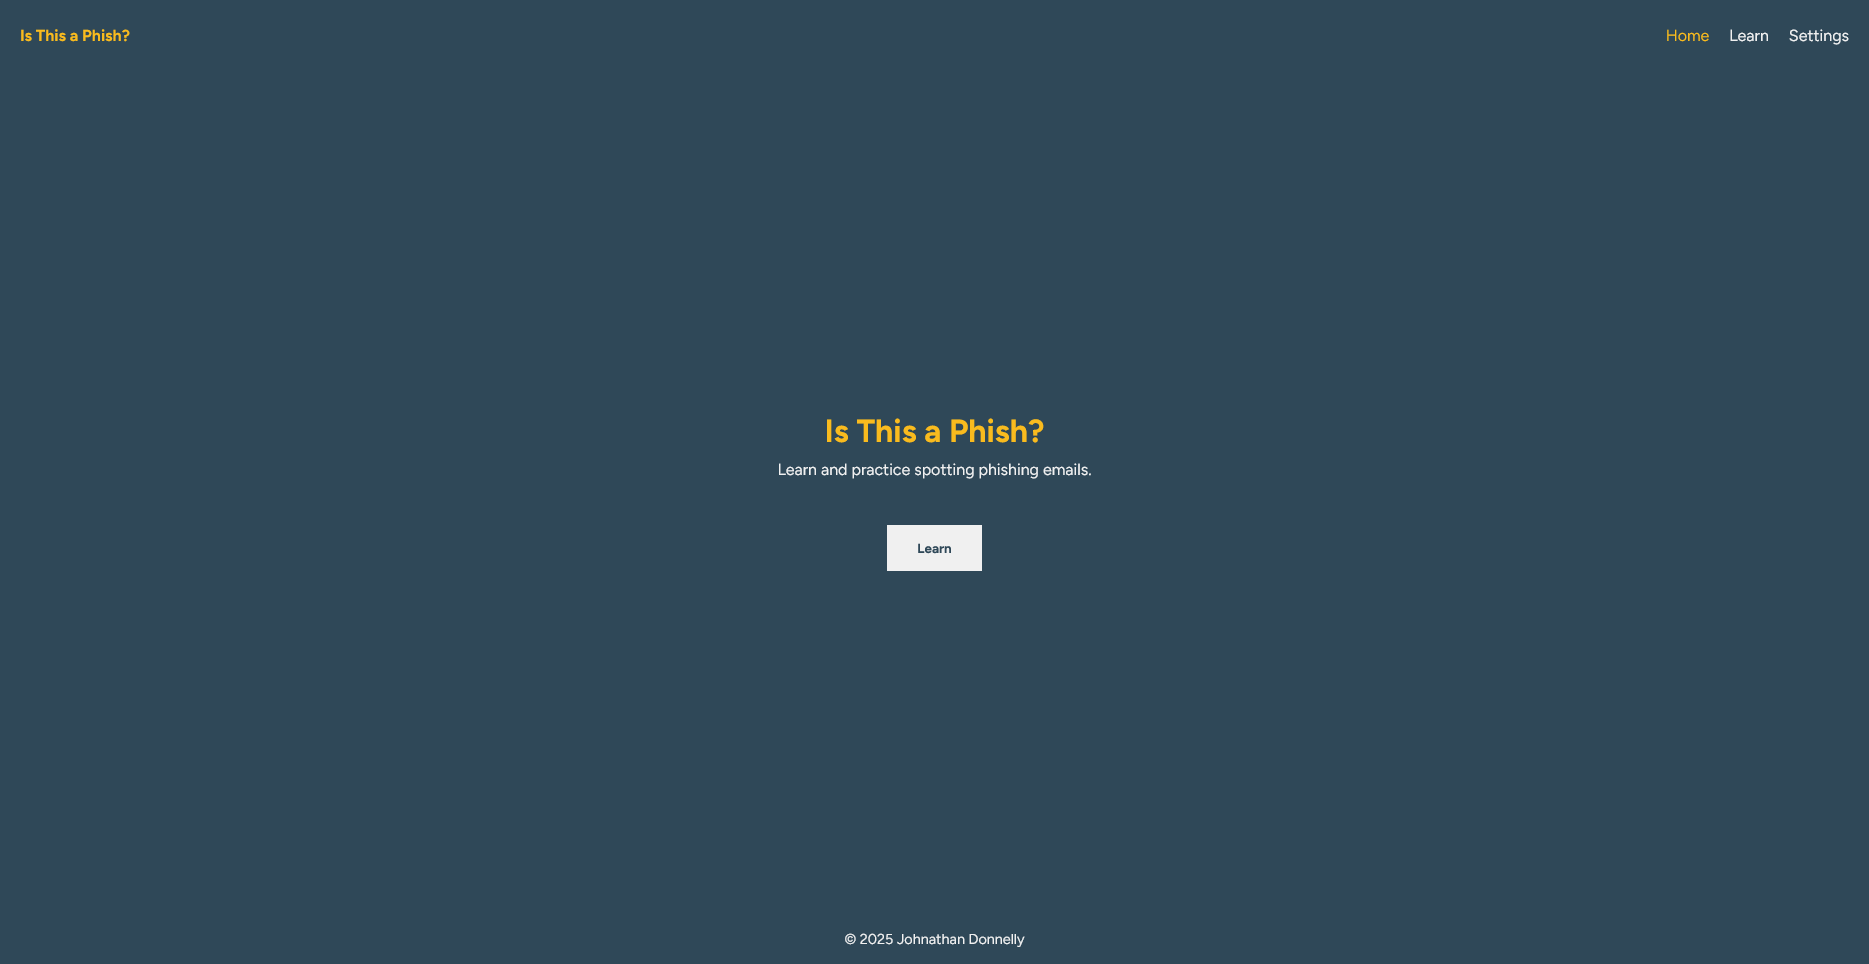
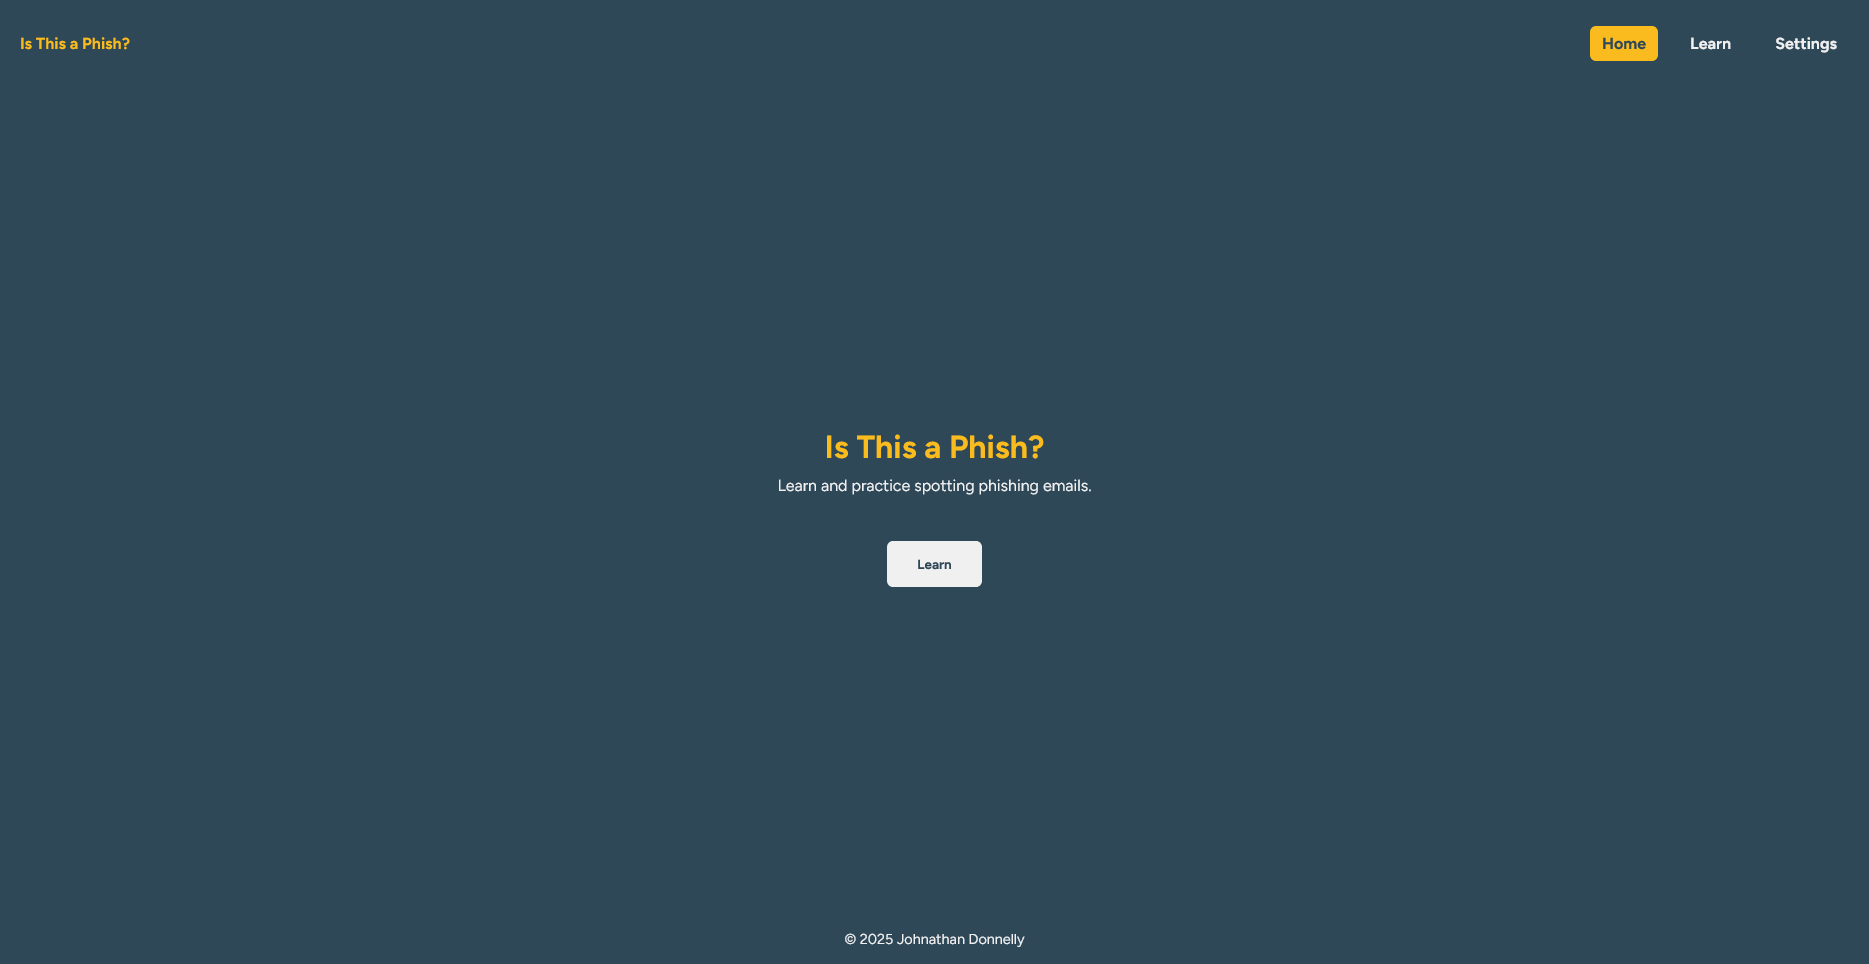
progress bar and styling improvements

Changed region(s): [[0.4034, 0.4357, 0.5896, 0.6224], [0.8379, 0.0311, 0.993, 0.0622], [0.0, 0.0311, 0.0621, 0.0622]]

diff --git a/app/styles.css b/app/styles.css
@@ -22,6 +22,7 @@ button {
     font-weight: bold;
     padding: 15px 30px;
     transition: background-color 0.3s ease;
+    border-radius: 6px;
 }
 
 button:hover:not(:disabled) {
@@ -51,7 +52,8 @@ button:disabled {
 }
 
 .active-page {
-    color: var(--primary-color)
+    background-color: var(--primary-color);
+    color: var(--background-color)
 }
 
 .page-wrapper {
@@ -92,11 +94,16 @@ ul li a {
     color: inherit;
     display: inline-block;
     text-decoration: none;
+    border-radius: 6px;
+    padding: 8px 12px;
+    transition: background-color 0.3s ease, color 0.3 ease;
+    font-weight: bold;
 }
 
 ul li a:hover {
     color: var(--primary-color);
     transition: color 0.3s ease;
+    background-color: rgba(249, 187, 30, 0.2);
 }
 
 /* Footer */
@@ -130,6 +137,34 @@ footer {
     margin-bottom: 20px;
 }
 
+#progress {
+    width: 80%;
+    background-color: #000000;
+    border-radius: 10px;
+    margin: 20px auto;
+    height: 20px;
+    overflow: hidden;
+    position: relative;
+}
+
+#progress-bar {
+    height: 100%;
+    width: 0%;
+    background-color: var(--primary-color);
+    transition: width 0.5s ease;
+    color: var(--background-color);
+}
+
+#progress-text {
+    position: absolute;
+    top: 50%;
+    left: 50%;
+    transform: translate(-50%, -50%);
+    font-size: 0.8rem;
+    font-weight: bold;
+    pointer-events: none;
+}
+
 /* Lesson: Email */
 
 #lesson {
@@ -140,17 +175,30 @@ footer {
 
 #email {
     flex: 7;
+    background-color: #ffffff;
+    color: #000000;
+    padding: 20px;
+    box-shadow: 0 2px 8px rgba(0,0,0,1);
+    font-family: Arial, Helvetica, sans-serif;
+    border-radius: 6px;
 }
 
 #email-title {
     font-size: 24px;
-    font-weight: bold;
+    font-weight: normal;
+    margin: 0 0 12px 0;
+    /*border-bottom: 1px solid #ddd;
+    margin-bottom: 8px;
+    padding-bottom: 4px;*/
 }
 
 #email-info {
     align-items: center;
     display: flex;
     gap: 10px;
+    color: #555;
+    flex-wrap: wrap;
+    margin-bottom: 20px;
 }
 
 #email-info p {
@@ -162,7 +210,9 @@ footer {
 }
 
 #email-content {
-    margin-top: 50px;
+    padding-top: 10px;
+    /*margin-top: 0px;*/
+    line-height: 1.6;
 }
 
 /* Lesson: Information */

diff --git a/app/learn.js b/app/learn.js
@@ -21,4 +21,23 @@ fetch('lesson.json')
                 }
             });
         });
+
+        let totalLessons = 0;
+        Object.keys(data).forEach(category => {
+            totalLessons += data[category].length;
+        });
+        const completedCount = completed.length;
+
+        const bar = document.getElementById("progress-bar");
+        const percent = Math.round((completedCount / totalLessons) * 100);
+        bar.style.width = percent + "%";
+
+        const text = document.getElementById("progress-text");
+        text.textContent = `${percent}%`;
+
+        if (percent > 5) {
+            text.style.color = "#000";
+        } else {
+            text.style.color = "#FFF"
+        }
     });

diff --git a/app/learn.html b/app/learn.html
@@ -24,6 +24,10 @@
         <main>
             <div id="learn-page" class="center-content">
                 <h1 class="title">Learn</h1>
+                <div class="center-content" id="progress">
+                    <div id="progress-bar"></div>
+                    <span id="progress-text"></span>
+                </div>
                 <div class="center-content">
                     <h2>Tutorial</h2>
                     <div>

diff --git a/README.md b/README.md
@@ -8,15 +8,41 @@
 
 You are presented example emails and must choose: **Phish** or **Legit**.
 
-Designed to teach users how to identify phishing attacks through hands-on practice.
-
 ## 📸 Screenshots
 
 ![Home Page](assets/home.png)
 
+## 🚀 Getting Started
+
+1. Clone the repository
+
+```bash
+git clone https://github.com/johnathandonnelly/Is-This-a-Phish.git
+```
+
+2. Navigate to the project folder
+
+```bash
+cd Is-This-a-Phish
+```
+
+3. Start a local server
+
+```bash
+python -m http.server 3000
+```
+
+4. Open your browser and go to
+
+```bash
+http://localhost:3000
+```
+
+Or simply use the [live demo](https://johnathandonnelly.github.io/Is-This-a-Phish/)
+
 ## 💡 Why I Built This
 
-I built this practical project to apply my cybersecurity knowledge and create an educational tool for phishing awareness.
+I wanted to create a practical, accessible tool to help people build confidence in identifying phishing emails, and apply my own cybersecurity knowledge in the process.
 
 ## 📜 License
 

diff --git a/CHANGELOG.md b/CHANGELOG.md
@@ -1,5 +1,18 @@
 # Changelog
 
+## [0.0.4] - 2025-##-##
+
+### Added
+
+* Progress bar
+
+### Changed
+
+* Email styling
+* Navigation hover and active backgrounds
+* Rounded buttons
+* README and screenshot
+
 ## [0.0.3] - 2025-09-25
 
 ### Changed
